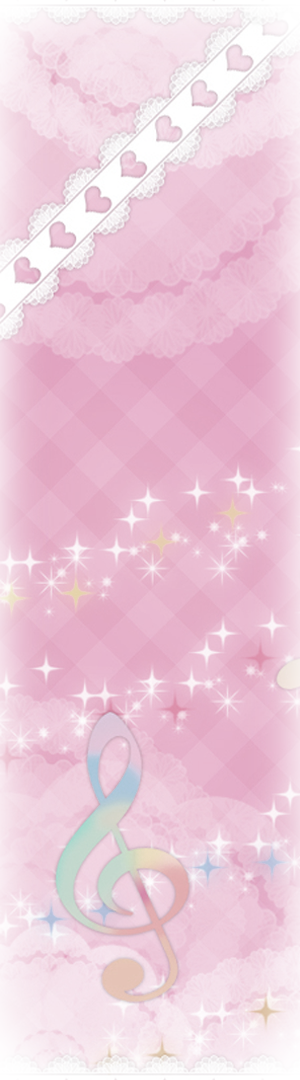
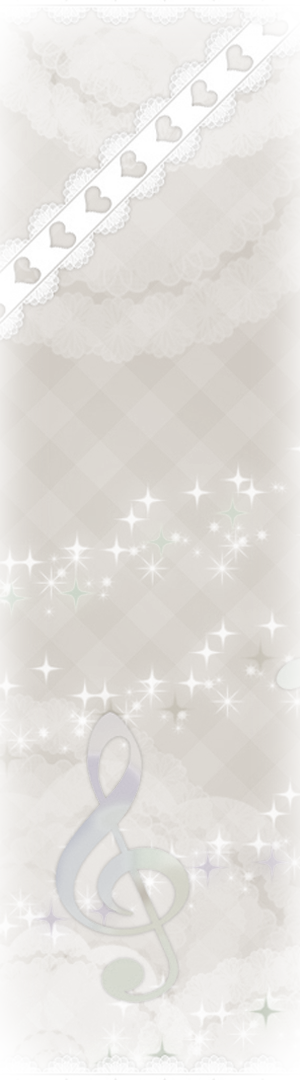
Update the theme 'lolita'.

diff --git a/src/theme/config/lolita/config.css b/src/theme/config/lolita/config.css
@@ -1,5 +1,6 @@
 #react-content{
-    background-image: url(../../images/lolita/body.png);
+    background-image: url(../../images/lolita/body.jpg);
+    /*background-color: white;*/
 }
 
 .head-image{
@@ -16,11 +17,11 @@
 }
 
 .page-preview{
-    background: rgba(228, 228, 228, 0.5);
+    background: rgba(234, 234, 234, 0.5);
 }
 
 .page-preview blockquote{
-    background-color: rgba(243, 216, 222, 0.6);
+    background-color: rgba(220, 214, 211, 0.6);
 }
 
 .page-preview pre{
@@ -28,7 +29,7 @@
 }
 
 .page-preview code{
-    background-color: rgba(239, 194, 212, 0.6);
+    background-color: rgba(255, 255, 255, 0.7);
 }
 
 .page-text{
@@ -36,19 +37,19 @@
 }
 
 .page-text::-webkit-scrollbar-thumb{
-    background: rgba(239, 194, 212, 1);
+    background: rgb(195, 199, 202);
 }
 
 .page-text::-webkit-scrollbar-track {
-    background: rgba(208, 198, 188, 0.8);
+    background: rgba(209, 205, 205, 0.8);
 }
 
 .ace_scrollbar::-webkit-scrollbar-thumb{
-    background: rgba(239, 194, 212, 1);
+    background: rgb(195, 199, 202);
 }
 
 .ace_scrollbar::-webkit-scrollbar-track {
-    background: rgba(213, 200, 197, 0.8);
+    background: rgba(209, 205, 205, 0.8);
 }
 
 .page-list{
@@ -88,7 +89,7 @@
 }
 
 .chapter-list::-webkit-scrollbar-thumb{
-    background: rgb(239, 159, 167);
+    background: rgb(195, 188, 194);
 }
 
 .chapter-list::-webkit-scrollbar-track {
@@ -135,11 +136,11 @@
 }
 
 .book-list-create{
-    background-color: rgba(195, 114, 146, 0.8);
+    background-color: rgba(186, 184, 183, 0.8);
 }
 
 .book-list-load{
-    background-color: rgba(195, 114, 146, 0.8);
+    background-color: rgba(186, 184, 183, 0.8);
 }
 
 .bm-menu-wrap {

diff --git a/src/theme/config/lolita/editor.css b/src/theme/config/lolita/editor.css
@@ -7,17 +7,17 @@
 }
 
 .ace-magic-book .ace_constant {
-    color: #FB83A4
+    color: #beb79c
 }
 
 .ace-magic-book .ace_heading {
     bold: border;
-    color: #E85B82
+    color: #b1b593
 }
 
 .ace-magic-book .ace_heading .ace_cjk {
     bold: border;
-    color: #E85B82
+    color: #b1b593
 }
 
 .ace-magic-book .ace_gutter {
@@ -35,11 +35,11 @@
 }
 
 .ace-magic-book .ace_cursor {
-    color: #C35774
+    color: #b1b593
 }
 
 .ace-magic-book .ace_marker-layer .ace_selection {
-    background: #EAC9D2
+    background: #dddddd
 }
 
 .ace-magic-book.ace_multiselect .ace_selection.ace_start {
@@ -56,7 +56,7 @@
 }
 
 .ace-magic-book .ace_marker-layer .ace_active-line {
-    background: rgba(224, 141, 170, 0.15)
+    background: rgba(200, 202, 182, 0.3)
 }
 
 .ace-magic-book .ace_gutter-active-line {
@@ -71,7 +71,7 @@
 .ace-magic-book .ace_keyword,
 .ace-magic-book .ace_meta,
 .ace-magic-book .ace_variable.ace_language {
-    color: #C800A4
+    color: #b9b391
 }
 
 .ace-magic-book .ace_invisible {
@@ -94,7 +94,7 @@
 }
 
 .ace-magic-book .ace_fold {
-    background-color: #C800A4;
+    background-color: #c5c8a4;
     border-color: #000000
 }
 
@@ -105,7 +105,7 @@
 }
 
 .ace-magic-book .ace_storage {
-    color: #C900A4
+    color: #c9c6ac
 }
 
 .ace-magic-book .ace_string {
